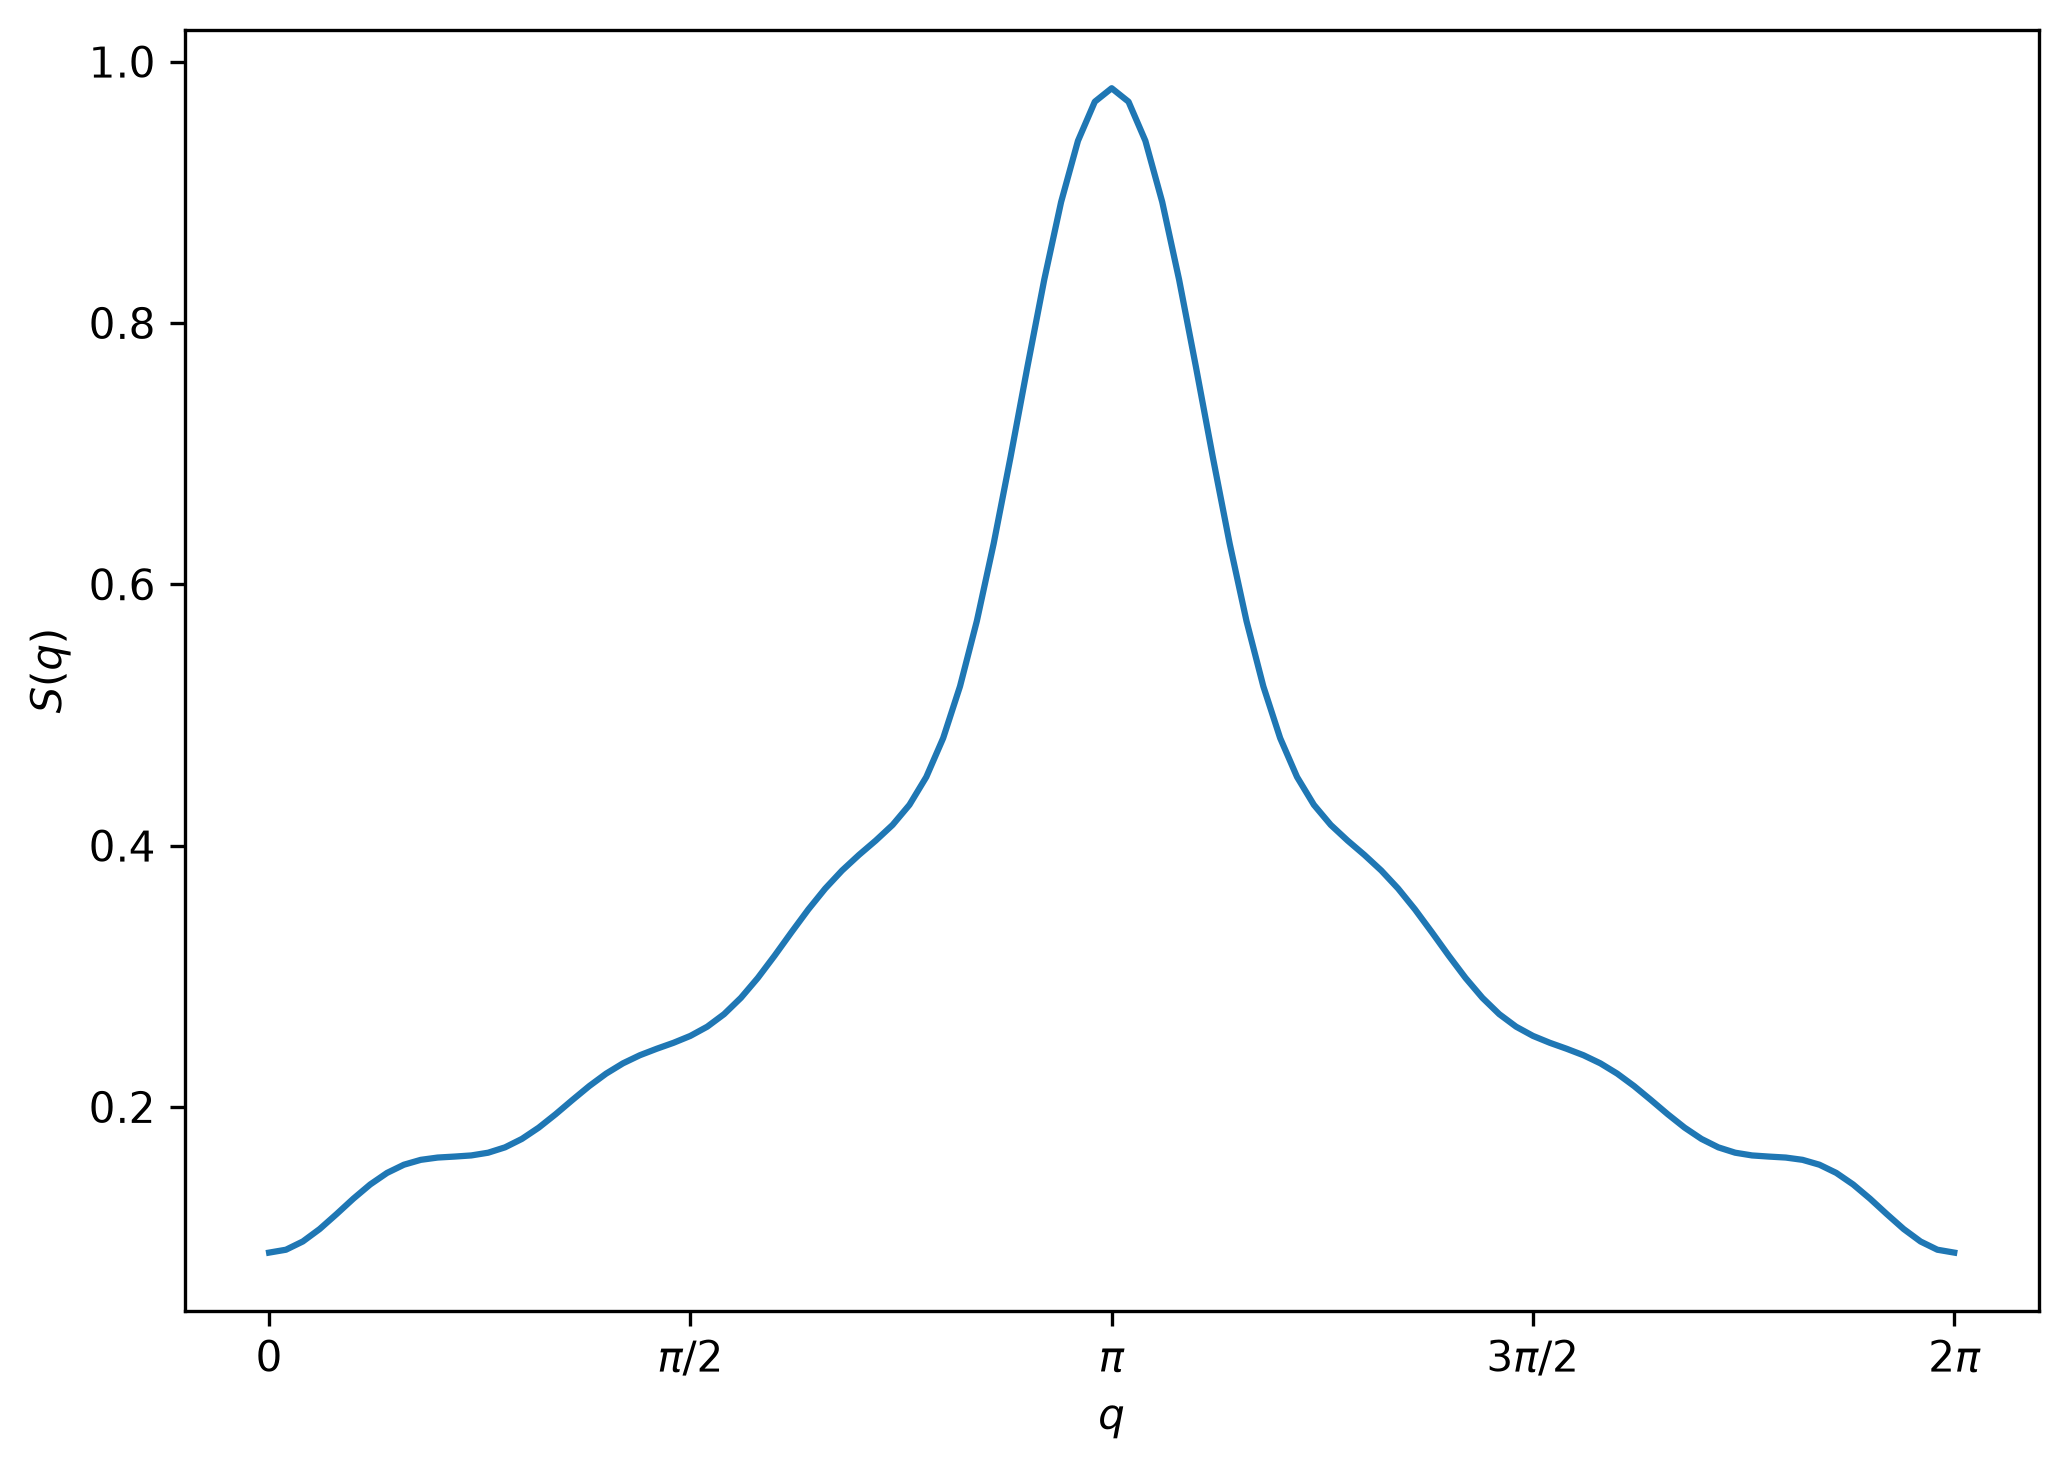
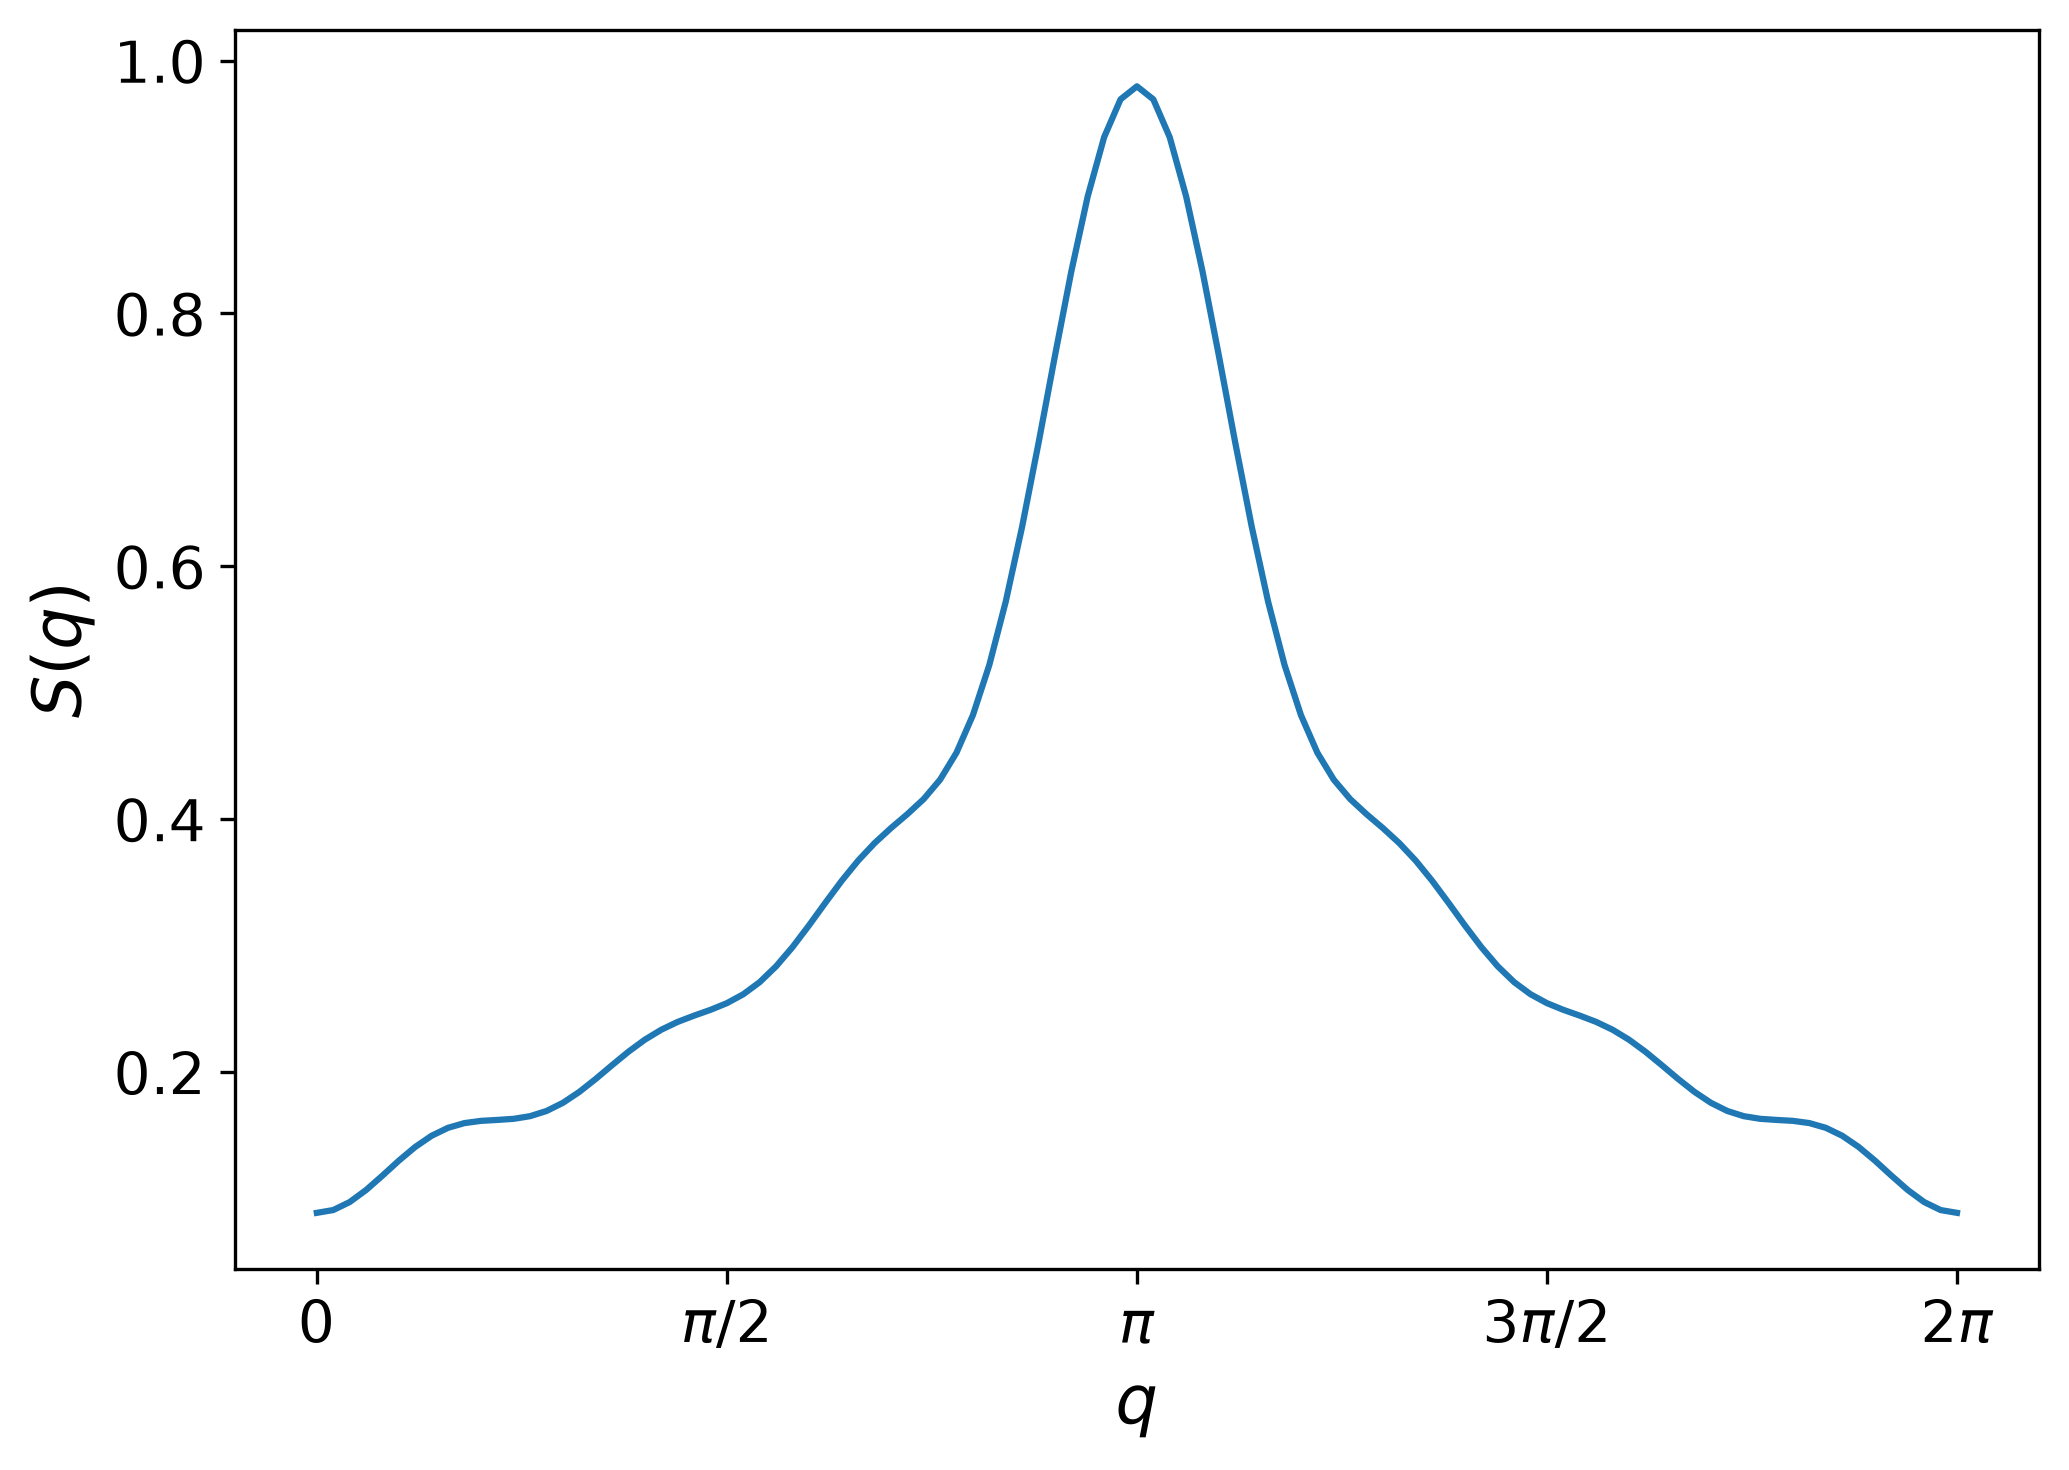
fix graph design

diff --git a/sqw_ed.py b/sqw_ed.py
@@ -16,6 +16,15 @@ import numpy as np
 import matplotlib.pyplot as plt
 from functools import reduce
 
+plt.rcParams.update({
+    "axes.labelsize": 16,    # x軸・y軸のラベル
+    "xtick.labelsize": 14,   # x軸の目盛り
+    "ytick.labelsize": 14,   # y軸の目盛り
+    "axes.titlesize": 14,    # グラフタイトル
+    "legend.fontsize": 12,   # 凡例
+    "figure.titlesize": 14,  # Figure全体のタイトル
+})
+
 up = np.array([1, 0], dtype=complex)  # |↑⟩
 dn = np.array([0, 1], dtype=complex)  # |↓⟩
 
@@ -93,16 +102,20 @@ plt.savefig("sq_ed_L8.png", dpi=300, bbox_inches="tight")
 plt.show()
 
 plt.figure(figsize=(8, 5))
-plt.pcolormesh(q_values, omega, S_qw.T/np.max(S_qw), cmap="turbo",shading="auto")
+c =plt.pcolormesh(q_values, omega, S_qw.T/np.max(S_qw), cmap="turbo",shading="auto")
 plt.xlabel(r"$q$")
 plt.ylabel(r"$\omega/J$")
-cbar = plt.colorbar(label=r"$S^{zz}(q,\omega)$_normalized")
+cbar = plt.colorbar(c, label=r"$S^{zz}(q,\omega)$ normalized")
+cbar.set_label(r"$S^{zz}(q,\omega)$ normalized", fontsize=16)
+c.set_clim(0, 1)
 cbar.set_ticks([0.0, 0.2, 0.4, 0.6, 0.8, 1.0])
+cbar.ax.tick_params(labelsize=12)
+plt.xlim(0, 2*np.pi)
 plt.xticks(
-    [0, np.pi/2, np.pi, 3*np.pi/2, 2*np.pi],
+    [0, np.pi / 2, np.pi, 3 * np.pi / 2, 2 * np.pi],
     [r"$0$", r"$\pi/2$", r"$\pi$", r"$3\pi/2$", r"$2\pi$"]
 )
-plt.ylim(0, 3.5)
+plt.ylim(0.0, 3.5)
 plt.tight_layout()
 plt.title("Dynamical structure factor L=8 ED")
 plt.savefig("sqw_ed_L8.png", dpi=300, bbox_inches="tight")
